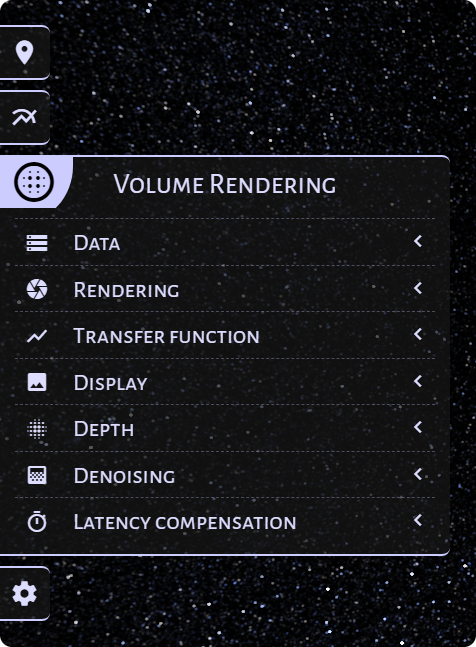
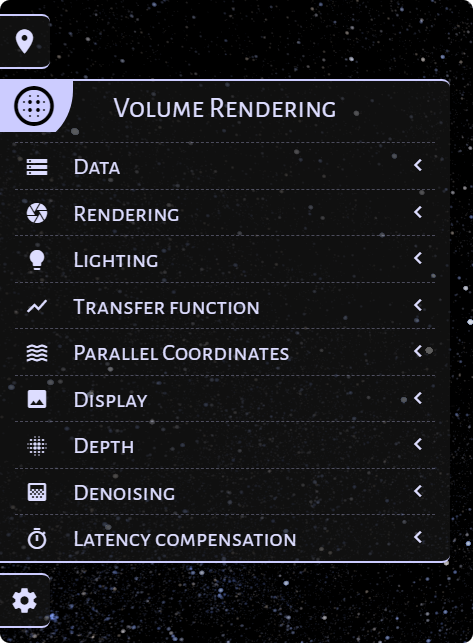
:memo: Update usage in README

diff --git a/README.md b/README.md
@@ -177,6 +177,9 @@ When the data has finished loading, a message will be displayed on the console:
 
 ![data finished loading](docs/img/console_data_finished.png)
 
+If multiple levels of detail are available, the lowest lod will be loaded first.
+Higher lods will be loaded asynchronously when the timestep did not change for 2 seconds.
+
 Afterwards there may be another delay of a few seconds before the first image is rendered.
 Rendered images will be displayed at the position specified in the transform settings of the plugin.
 
@@ -194,10 +197,10 @@ For configuring the plugin at runtime a new tab is added to the CosmoScout sideb
 ### Data
 
 The data section allows selecting the exact data that should be rendered.
-The scalar can be selected from a dropdown menu that is filled with values when the data for the initial timestep was loaded.
+The scalar can be selected from a dropdown menu that is filled with values when the data for the initial timestep is loaded.
 
 If multiple timesteps are available, the timestep that should be visualized can be changed using the `Timestep` slider.
-The slider is hidden, if only one data file matching the volumeDataPattern was found.
+The slider is hidden, if only one data file matching `data.namePattern` was found.
 
 In addition to manual timestep selection it is also possible to automatically and uniformly increase the timestep at a speed selectable using the `Animation speed` slider.
 The speed is given as indices per second, so starting at timestep `0` and at a speed of `100` after one second data for timestep `100` will be displayed.
@@ -207,8 +210,10 @@ The animation can be started and paused using the button at the bottom of the se
 
 ### Rendering
 
-The rendering section contains sliders for setting several the rendering parameters resolution, sampling rate, density scale and sun strength that can also be set using properties in the settings.json file.
+The rendering section contains sliders for setting the rendering parameters resolution, sampling rate, maximume amount of render passes and density scale, that can also be set using properties in the settings.json file.
 Information on these settings can be found under [Configuration - Rendering settings](#rendering-settings).
+
+The progressive rendering enabled by setting "Max Passes" to a value greater than `1` will run additional render passes to produce better quality images, as long as no parameters (such as camera perspective or most of the settings configurable in the UI) change.
 
 The section also allows disabling/enabling rendering new images using the checkbox at the top.
 When the box is unchecked no new images will be rendered and if there is an ongoing render process it is cancelled and its results are discarded.
@@ -218,29 +223,65 @@ The current progress of the rendering progress is shown using the bar next to th
 
 ![sidebar rendering section](docs/img/sidebar_rendering.png)
 
+### Lighting
+
+The lighting section allows setting the lighting parameters found under [Configuration - Lighting settings](#lighting-settings).
+
+Note that when the lighting is enabled, the relative position of the sun in CosmoScout will be used to calculate the direction of the sunlight.
+This means, that you can change this direction by changing the current time using CosmoScout's timeline.
+
+Note, that with enabled lighting you should pause CosmoScout's time if you want to use progressive rendering.
+Otherwise, the sun's position will continuously move, which means that no progressive rendering passes can be executed, as the lighting is constantly changing.
+
+![sidebar lighting section](docs/img/sidebar_lighting.png)
+
 ### Transfer Function
 
 The transfer function section contains an editor for setting the transfer function that is used for rendering.
 The leftmost value of the function will be used for the lowest scalar value present in the dataset, the rightmost will be used for the highest value present.
 
-The transfer function is defined by multiple control points which can dragged with the mouse.
+The transfer function is defined by multiple control points which can be dragged with the mouse.
 The y position of each point defines the opacity of the function for the corresponding scalar value.
-Between two points the opacity is interpolated.
+Between two points the opacity is linearly interpolated.
 
 In addition to the opacity values each point may also define a color value for the corresponding scalar value.
 Points that define a color value are shown slightly larger on the graph.
 The color function is calculated by interpolating between all control points that do have a color value.
 
 Whether a control point defines a color value can be set using the lock button below the transfer function graph.
-If the lock button shows a closed lock, the color of the currently selected control point (orange outline) can be selected using the button next to the lock button.
+If the lock button shows a closed lock, the color of the currently selected control point (larger, brighter outline) can be selected using the button next to the lock button.
 It he lock button shows an unlocked lock the control point does not carry any color information.
 The state of the lock button can be switched by clicking it.
 
-The current transfer function can be saved to a json file by entering a filename and then clicking the export button.
-Previously exported functions can be imported by selecting them from the dropdown at the bottom of the section and then clicking the import button.
+The current transfer function can be saved to a json file by entering a filename and then clicking the "Export" button.
+Previously exported functions can be imported by selecting them from the dropdown at the bottom of the section and then clicking the "Import" button.
 Transfer functions are exported to and imported from `<cosmoscout-installation-directory>/share/resources/transferfunctions/`.
 
+To make finetuning of the transfer function easier, you can zoom into the graph using the "X-Range" and "Y-Range" sliders.
+When importing a saved transfer function, all control points will be placed relative to the current x-range.
+This enables you to focus your transfer function on smaller ranges of the whole data extent.
+
 ![sidebar transfer function section](docs/img/sidebar_transfer_function.png)
+
+### Parallel Coordinates
+
+The parallel coordinates tab allows to use a parallel coordinates plot to limit the visible parts of the volume.
+
+Along each axis, min and max values can be specified, either by clicking and dragging on the axis or by selecting an axis by clicking on it and then changing min and max values in the corresponding text fields.
+Brushed axes can be reset by clicking on them outside the brushed area.
+
+Axes can be reordered by dragging and dropping them at their header.
+
+The current state can be saved to a json file by entering a filename and then clicking the "Export" button.
+Previously exported states can be imported by selecting them from the dropdown at the bottom of the section and then clicking the "Import" button.
+States are exported to and imported from `<cosmoscout-installation-directory>/share/resources/parcoords/`.
+
+![sidebar parallel coordinates section](docs/img/sidebar_parcoords.png)
+
+Using the button in the top right of the plot, the parallel coordinates plot can be moved to a draggable and resizable window, which allows a better overview of the plot.
+You can move the plot back to the sidebar by closing the window.
+    
+![parallel coordinates popout](docs/img/parcoords_popout.png)
 
 ### Display
 
@@ -311,6 +352,7 @@ For this, the volume will be sampled at the surface of the core, so make sure, t
 ### Settings
 
 These settings can only be changed in the settings file.
+They have to be children of the `"core"` category in the plugin configuration.
 
 | Key | Type | Default | Description |
 | --- | --- | --- | --- |
@@ -325,6 +367,7 @@ Used to render precomputed pathlines inside the volume.
 ### Settings
 
 All settings apart from the path can be dynamically changed in the CosmoScout UI.
+They have to be children of the `"pathlines"` category in the plugin configuration.
 
 | Key | Type | Default | Description |
 | --- | --- | --- | --- |
@@ -343,5 +386,21 @@ Apart from the .vtk file, you also **have to** supply a .csv file containing the
 This will be used to allow restricting the rendered pathlines using a parallel coordinates plot.
 
 Scalars with the names `<name>_start` and `<name>_end` will be linked to a corresponding scalar `<name>` in the volume data, if such a scalar exists.
-This is used to copy scalar restrictions on the volume data to the pathline data.
-If a cell scalar named `"InjectionStepId_start"` is present, it will be used to only show lines spawned during the last 10 timesteps.
+If a cell scalar named `"InjectionStepId_start"` is present, it will be used to get the starting time of the pathlines.
+
+### Usage
+
+The pathlines section in the sidebar can be used to configure the rendering of the pathlines.
+The "Render pathlines" checkbox can be used to activate or deactivate the rendering of the pathlines and the "Line size" slider can be used to set the width of the rendered lines (in the same units as used by the volume).
+
+By default, the pathlines are also affected by the configuration in the [Parallel Coordinates](#parallel-coordinates) tab.
+Restrictions on scalars of the volume data will be applied to linked (as described under [Supported data](#supported-data)) scalars of the pathline data.
+Additionally, if a scalar for getting the starting time of each pathline is available (see [Supported data](#supported-data)), it will automatically be restricted to the current timestep set in the [Data](#data) tab and 9 previous timesteps.
+
+![sidebar pathlines section](docs/img/sidebar_pathlines.png)
+
+If this linking with the parallel coordinates plot for the volume data is not wanted, it can be deactivated by checking the "Separate parallel coordinates" checkbox.
+Doing so will add another parallel coordinates plot containing the pathline scalars to the "Pathlines" tab, which can be used to restrict the shown pathlines.
+To manually transfer the volume's parallel coordinate plot configuration to this one, you can use the "Copy to pathlines" button at the bottom of the "Parallel Coordinates" tab.
+
+![sidebar pathlines section with parcoords](docs/img/sidebar_pathlines_parcoords.png)
